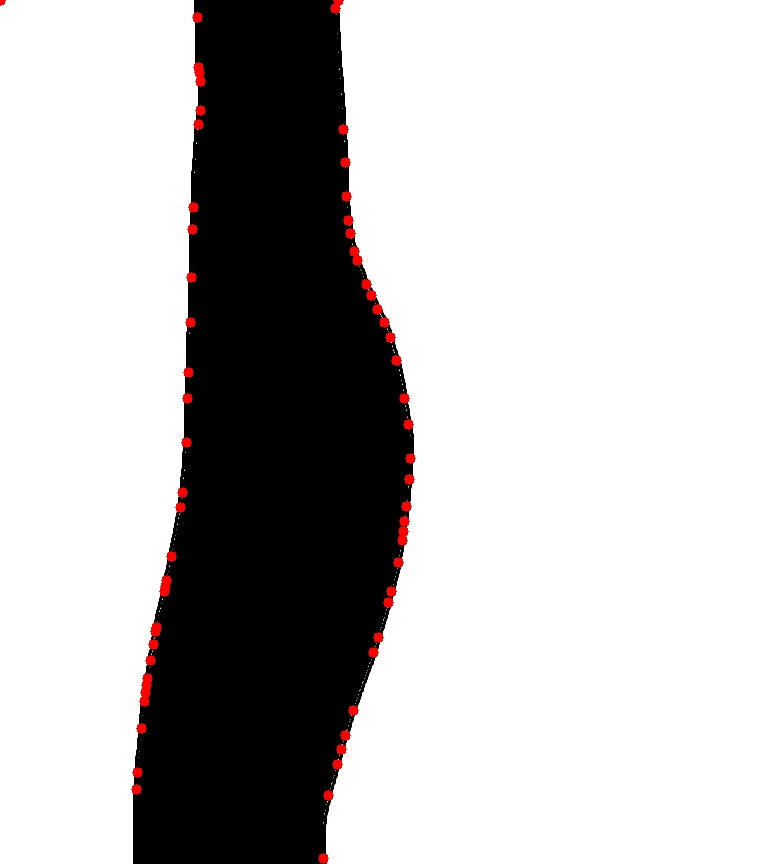
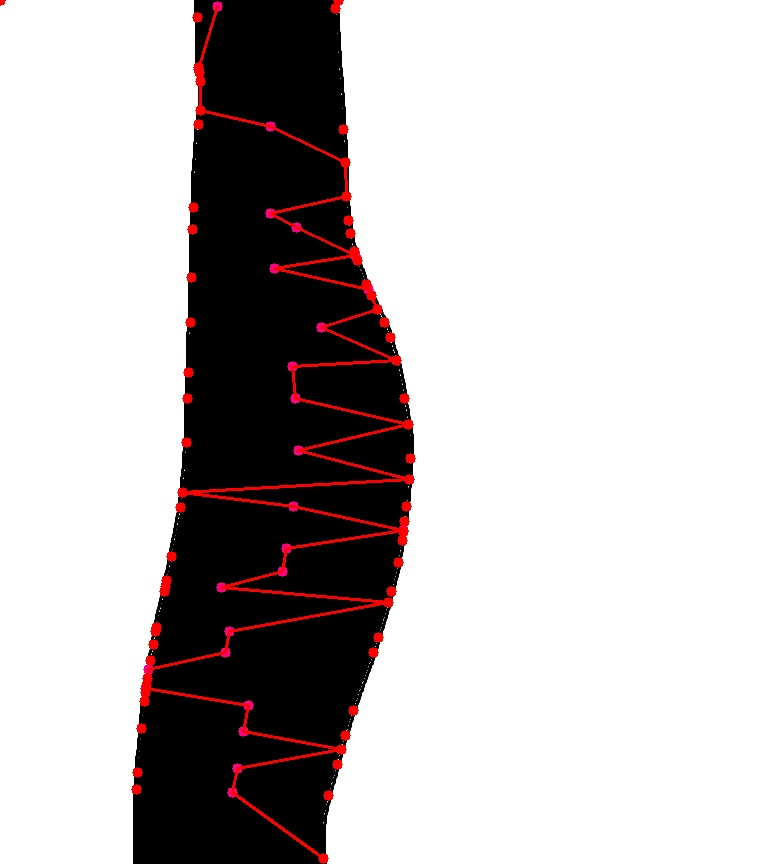
Pushing what i have

diff --git a/source/ImageProcessing.py b/source/ImageProcessing.py
@@ -208,7 +208,6 @@ contours, hierarchy = cv.findContours(binary, cv.RETR_TREE, cv.CHAIN_APPROX_SIMP
 list1 = []
 
 h, w, c = originalImage.shape
-inde = 0
 
 for i in contours:
     for j in i:
@@ -253,8 +252,37 @@ def deleteNearbyNodes(nodes):
 list1 = deleteNearbyNodes(list1)
 print("List length after deletion nr.2:", len(list1))
 
+roadNodeList = []
+step = 20
+for y in range(step,h,step):
+    n = []
+    for node in list1:
+        if node[1] >= y - step and node[1] <= y:
+            n.append(node)
 
+    if len(n) == 0:
+        continue
+    
+    averageX = 0
+    averageY = 0
+    i = 0
+    for node in n: 
+        averageX += node[0]
+        averageY += node[1]
+        i+=1
 
+    averageX = averageX / i
+    averageY = averageY / i
+
+    roadNodeList.append([int(averageX),int(averageY)])
+
+lastNode = None
+for position in roadNodeList: 
+    originalImage = cv.circle(originalImage,(position[0],position[1]),5,(128,0,255),-1)
+    if lastNode != None: 
+        originalImage = cv.line(originalImage,(position[0],position[1]),(lastNode[0],lastNode[1]),(0,0,255),2)
+
+    lastNode = position
 for position in list1: 
     originalImage = cv.circle(originalImage,(position[0],position[1]),5,(0,0,255),-1)
 
